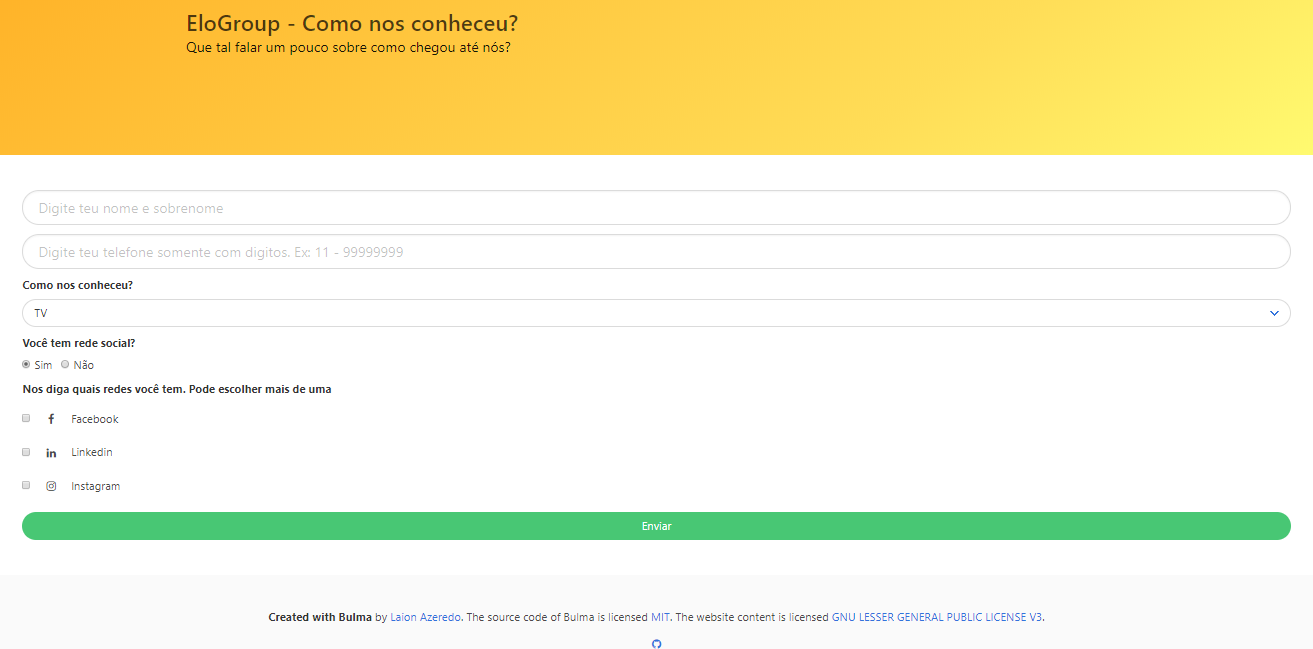
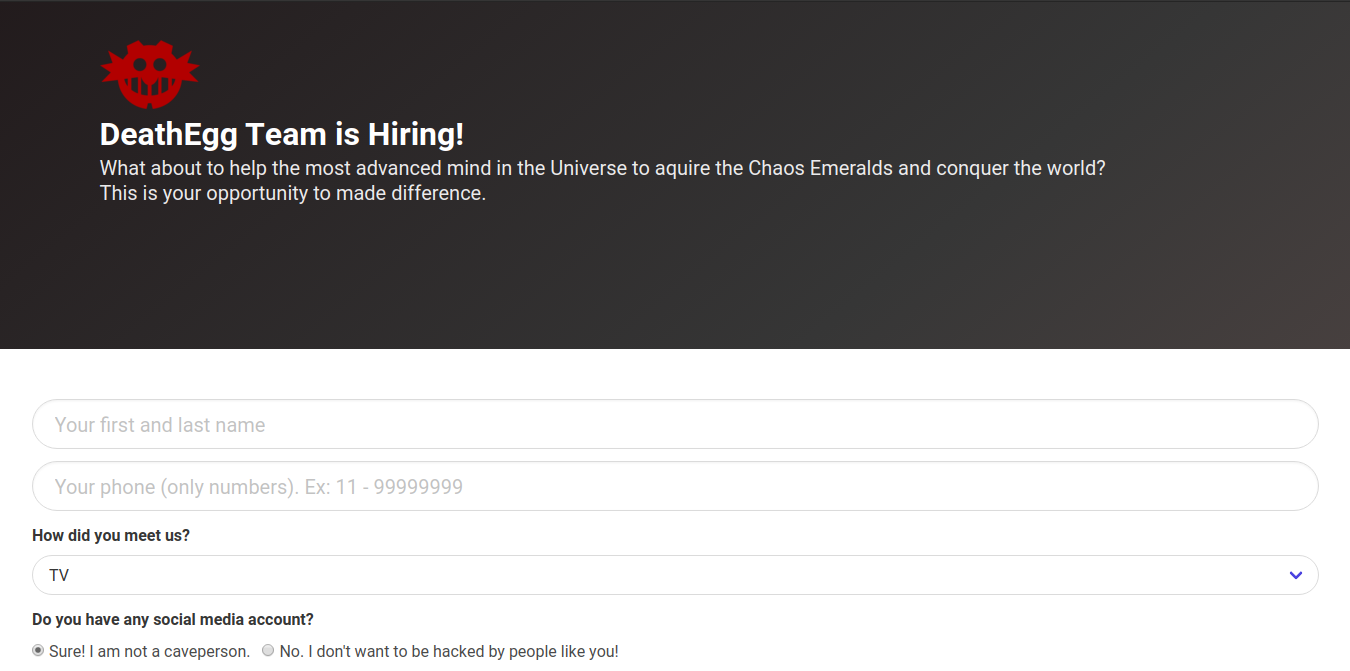
v 1.0.0

diff --git a/index.html b/index.html
@@ -5,21 +5,24 @@
     <meta charset="utf-8">
     <meta http-equiv="X-UA-Compatible" content="IE=edge">
     <meta name="viewport" content="width=device-width, initial-scale=1">
-    <title>EloGroup - Como nos conheceu?</title>
+    <title>DeathEgg Team is Hiring!</title>
+    <link rel="icon" href="assets/182-1829926_dr-eggman-logo (100x69).png">
     <link rel="stylesheet" href="styles/mystyles.css">
     <link rel="stylesheet" href="https://maxcdn.bootstrapcdn.com/font-awesome/4.7.0/css/font-awesome.min.css">
 </head>
 
 <body>
     <!--Hero section-->
-    <section class="hero is-medium is-warning is-bold">
+    <section class="hero is-medium is-dark is-bold">
         <div class="hero-body">
             <div class="container">
                 <h1 class="title">
-                    <strong>EloGroup - Como nos conheceu?</strong>
+                    <span><img src="assets/182-1829926_dr-eggman-logo (100x69).png"></span>
+                    <p><strong>DeathEgg Team is Hiring!</strong></p>
                 </h1>
-                <h2 class="subtitle">
-                    Que tal falar um pouco sobre como chegou até nós?
+                <h2 class="subtitle">                    
+                    <p>What about to help the most advanced mind in the Universe to aquire the Chaos Emeralds and conquer the world?</p>
+                    <p>This is your opportunity to made difference.</p>
                 </h2>
             </div>
         </div>
@@ -34,7 +37,7 @@
                 <div class="control">
 
                     <!--Nome-->
-                    <input class="input is-medium is-rounded" id="name" onkeyup="validateName()" type="text" placeholder="Digite teu nome e sobrenome" required>
+                    <input class="input is-medium is-rounded" id="name" onkeyup="validateName()" type="text" placeholder="Your first and last name" required>
                     <p class="help is-danger" id="name-error-prompt"></p>
                 </div>
             </div>
@@ -43,13 +46,13 @@
                 <div class="control">
 
                     <!--Telefone-->
-                    <input class="input is-medium is-rounded" id="phone" onkeyup="validatePhone()" type="text" placeholder="Digite teu telefone somente com digitos. Ex: 11 - 99999999" required>
+                    <input class="input is-medium is-rounded" id="phone" onkeyup="validatePhone()" type="text" placeholder="Your phone (only numbers). Ex: 11 - 99999999" required>
                     <p class="help is-danger " id="phone-error-prompt"></p>
                 </div>
             </div>
 
             <div class="field">
-                <label for="whereyoufrom" class="label">Como nos conheceu?</label>
+                <label for="whereyoufrom" class="label">How did you meet us?</label>
                 <div class="control">
 
                     <!--Como nos conheceu-->
@@ -57,7 +60,7 @@
                         <select id="whereyoufrom-select">
                             <option value="TV">TV</option>
                             <option value="Internet">Internet</option>
-                            <option value="Outros">Outros</option>
+                            <option value="Sega Genesis">Sega Genesis</option>
                         </select>
                     </div>
                 </div>
@@ -66,21 +69,21 @@
             <div class="field">
 
                 <!--Você tem rede social?-->
-                <label for="social" class="label">Você tem rede social?</label>
+                <label for="social" class="label">Do you have any social media account?</label>
                 <div class="control">
                     <label class="radio">
                         <input type="radio" id="social" name="social" value="1" onchange="hideSocialMedia(this.value)" checked>                            
-                            Sim
+                            Sure! I am not a caveperson.
                         </label>
                     <label class="radio">
                         <input type="radio" id="social" name="social" value="0" onchange="hideSocialMedia(this.value)">
-                            Não
+                            No. I don't want to be hacked by people like you!
                     </label>
                 </div>
             </div>
 
             <div class="field " id="ithassocial">
-                <label class="label ">Nos diga quais redes você tem. Pode escolher mais de uma</label>
+                <label class="label ">Say which of the following do you have to allow us to <del>hack</del> contact you.</label>
                 <div class="control ">
 
                     <!--Perfis Sociais-->
@@ -116,7 +119,7 @@
             </div>
 
             <!--botão de finalização-->
-            <input class="button is-rounded is-success is-fullwidth " id="send-btn" onClick="onSubmitRoutine()" type="button" name="send" value="Enviar">
+            <input class="button is-rounded is-dark is-fullwidth " id="send-btn" onClick="onSubmitRoutine()" type="button" name="send" value="Enviar">
 
             <!--Mensagem de agradecimento-->
             <div class="notification is-warning" id="msg-post-submit" hidden>
@@ -133,6 +136,7 @@
     <div class="container ">
         <div class="content has-text-centered ">
             <p>
+                <p>Dr. Eggman's logo is from <a href="https://www.nicepng.com/ourpic/u2w7q8r5u2q8o0e6_dr-eggman-logo/">Nice PNG</a> website</p>
                 <strong>Created with Bulma</strong> by <a href="https://github.com/laionazeredo ">Laion Azeredo</a>. The source code of Bulma is licensed
                 <a href="http://opensource.org/licenses/mit-license.php ">MIT</a>. The website content is licensed <a href="https://www.gnu.org/licenses/gpl-3.0.html ">GNU LESSER GENERAL PUBLIC LICENSE V3</a>.
             </p>

diff --git a/scripts.js b/scripts.js
@@ -3,17 +3,16 @@ function produceMessage(message, elementlocation) {
     document.getElementById(elementlocation).innerHTML = message;
 }
 
-
 //Validating Name - Needs to be filled and have at least one surname
 function validateName() {
     var name = document.getElementById("name").value;
 
     if (name.length == 0) {
-        produceMessage("Dica: O nome é obrigatório", "name-error-prompt");
+        produceMessage("Hint: The name is required.", "name-error-prompt");
         return false;
     }
     if (!name.match(/^(\D)*\s{1}/)) {
-        produceMessage("Dica: É necessário preencher nome e sobrenome", "name-error-prompt");
+        produceMessage("Hint: A surname is required alongside the name", "name-error-prompt");
         return false;
     }
     produceMessage("", "name-error-prompt");
@@ -25,17 +24,16 @@ function validatePhone() {
     var phone = document.getElementById("phone").value;
 
     if (phone.length == 0) {
-        produceMessage("Dica: O número de telefone deve ter 11 dígitos", "phone-error-prompt");
+        produceMessage("Hint: Phone number needs to have 11 digits", "phone-error-prompt");
         return false;
     }
     if (!phone.match(/(^\d{2})\s\-\s(\d){9}$/)) {
-        produceMessage("Dica: O número de telefone deve ter 11 dígitos, com o DDD separado do número por um traço e espaços, como neste exemplo: 11 - 999999999", "phone-error-prompt");
+        produceMessage("Hint: Phone number needs to have 11 digits, with area code (of 2 digits) separated by the core number by an hifen and spaces, like in this example: 11 - 999999999", "phone-error-prompt");
         return false;
     }
     produceMessage("", "phone-error-prompt");
     return true;
 }
-
 
 //Hidding social media if user don't have one
 function hideSocialMedia(state) {
@@ -48,8 +46,6 @@ function hideSocialMedia(state) {
         document.getElementById("ithassocial").style.display = "block";
     }
 }
-
-
 
 //Submit Form as Json
 
@@ -64,14 +60,14 @@ const addData = () => {
             socialprofilesvalues.push(item.value);
         }
     }
-    // JSON file example: id:' ' , nome: 'José', telefone: '11 - 999999999', origemcontato: 'TV', tenmidiasocial: 'Sim', perfissociai: {'Facebook, Instagram}
+    // JSON file example: id:' ' , name: 'José', phone: '11 - 999999999', contactsource: 'TV', gotsocial: 'Sim', socialprofile: {'Facebook, Instagram}
     let formfield = {
         id: Date.now(),
-        nome: document.getElementById("name").value,
-        telefone: document.getElementById("phone").value,
-        origemcontato: document.getElementById("whereyoufrom-select").value,
-        tenmidiasocial: document.getElementById("social").value,
-        perfissocial: socialprofilesvalues
+        name: document.getElementById("name").value,
+        phone: document.getElementById("phone").value,
+        contactsource: document.getElementById("whereyoufrom-select").value,
+        gotsocial: document.getElementById("social").value,
+        socialprofile: socialprofilesvalues
     }
 
     formfields.push(formfield); // Bulds the base array to JSON file generation    
@@ -108,8 +104,8 @@ function onSubmitRoutine() {
         // Display thankyou box after submission
         document.getElementById("msg-post-submit").style.display = "block";
         // HDisplay thankyou message after submission
-        document.getElementById("msg-post-submit").innerHTML = "Obrigado por enviar as informações. Trataremos com o maior carinho."
+        document.getElementById("msg-post-submit").innerHTML = "Thank you for sharing. We will make contact soon."
     } else {
-        alert("Verifique os campos preenchidos. Possivelmente há erros.") // Warns about validation issues
+        alert("Check the fields. Possibly you got some errors.") // Warns about validation issues
     }
 }

diff --git a/README.md b/README.md
@@ -1,10 +1,10 @@
-# laionazeredo_elogroup_form_validation_with_js_test
- Build a validation form with HTML5 and JS validation loop and CSS provided by Bulma
+# __laionazeredo__ vanillajs_form_validations_and_submission
+ This project demonstrate a form submission page that validates name and phone accordinly a defined pattern and sends the submission to a backend DB via JSON API.
 ![Representação da Página](/assets/final_result.png)
 
- ## Estrututra do projeto
+ ## Directory Tree
 ```
-laionazeredo_elogroup_form_validation_with_js_test              //
+vanillajs_form_validations_and_submission           //
 ├─ .git                                                         //
 ├─ .gitattributes                                               //
 ├─ .gitignore                                                   //
@@ -20,12 +20,9 @@ laionazeredo_elogroup_form_validation_with_js_test              //
   
 ```
 
- ## Nome no Processo Seletivo
- Laion Azeredo (laion.azeredo@gmail.com)
-
- ## Frameworks e demais códigos usados
- A maior parte do trabalho é feita usando js puro. Para o estilo, usei o framework css Bulma.
+## Frameworks and packages used
+The majority of code base is in vanilla JS. For styling, I used Bulma CSS Framework.
 
 
- ## Teste da API
- Em caso de querer testar a api desenvolvida, sugiro utilizar o json-server (pode ser encontrado via NPM) e usar o comando "json-server -p 8080 db.json" para subir o servidor. Após isso, basta entrar na url  http://localhost:8080/formsubmissions
+## API Test
+In case you want to test the developed api, I suggest using the json-server (can be found via NPM) and use the command "json-server -p 8080 db.json" to start the server. After that, just enter the url http://localhost:8080/formsubmissions
